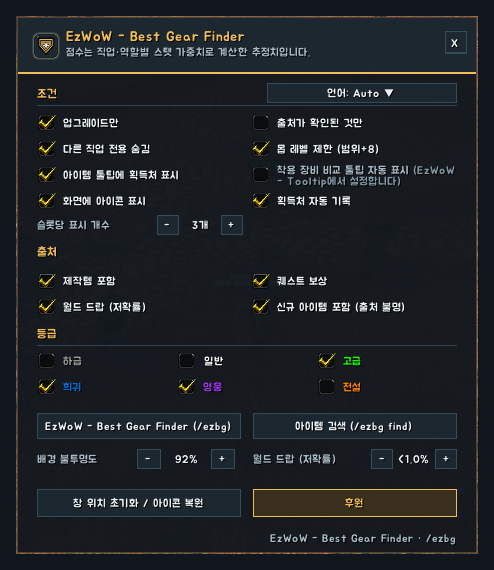
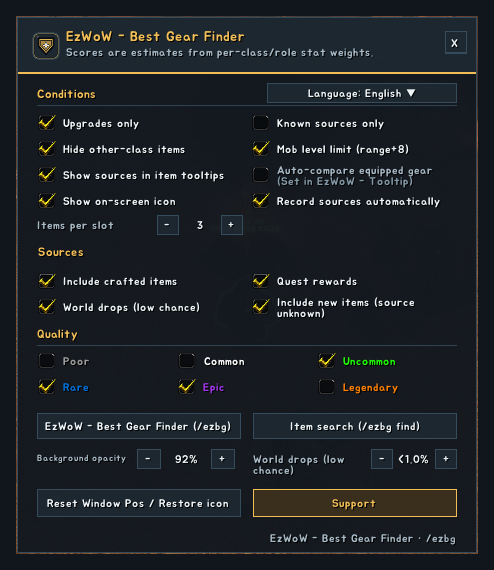
영어 설명용 게임 화면 추가

diff --git a/docs/curseforge_description.md b/docs/curseforge_description.md
@@ -15,7 +15,7 @@ Finds the **best gear you can wear right now** for your class and level, slot by
 
 ![BiS try-on (in-game, Korean client)](https://raw.githubusercontent.com/qqhrqqhr2/EzWoW-BestGearFinder/master/docs/images/tryon_ko.png)
 
-*In-game screenshots (WoW Forever, Korean client). Character and player names and chat text are blurred.*
+*In-game screenshots with the addon set to English. The game client is Korean, so game text such as zone, item and spell names stays Korean. Character and player names and chat text are blurred.*
 
 ## Features
 

diff --git a/README.md b/README.md
@@ -140,7 +140,7 @@ Best Gear Finder shows the **best gear you can wear right now** for your class a
 
 ![BiS try-on (in-game, Korean client)](docs/images/tryon_ko.png)
 
-> In-game screenshots (WoW Forever, Korean client). Character and player names and chat text are blurred.
+> In-game screenshots with the addon set to English. The game client is Korean, so game text such as zone, item and spell names stays Korean. Character and player names and chat text are blurred.
 
 ### Installation
 
